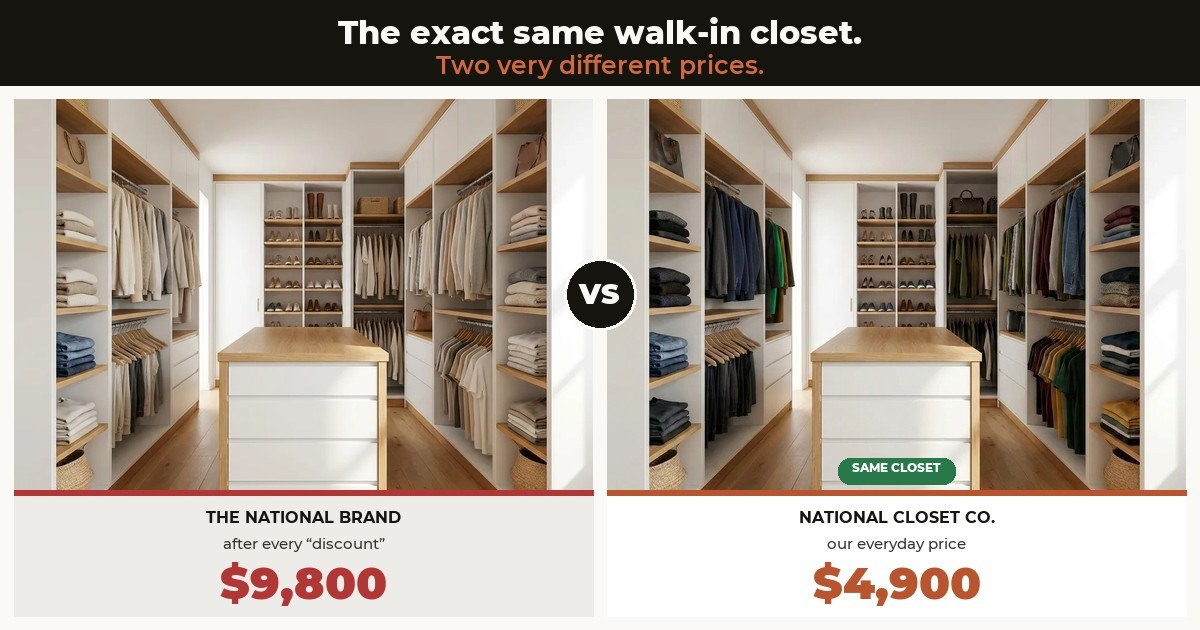
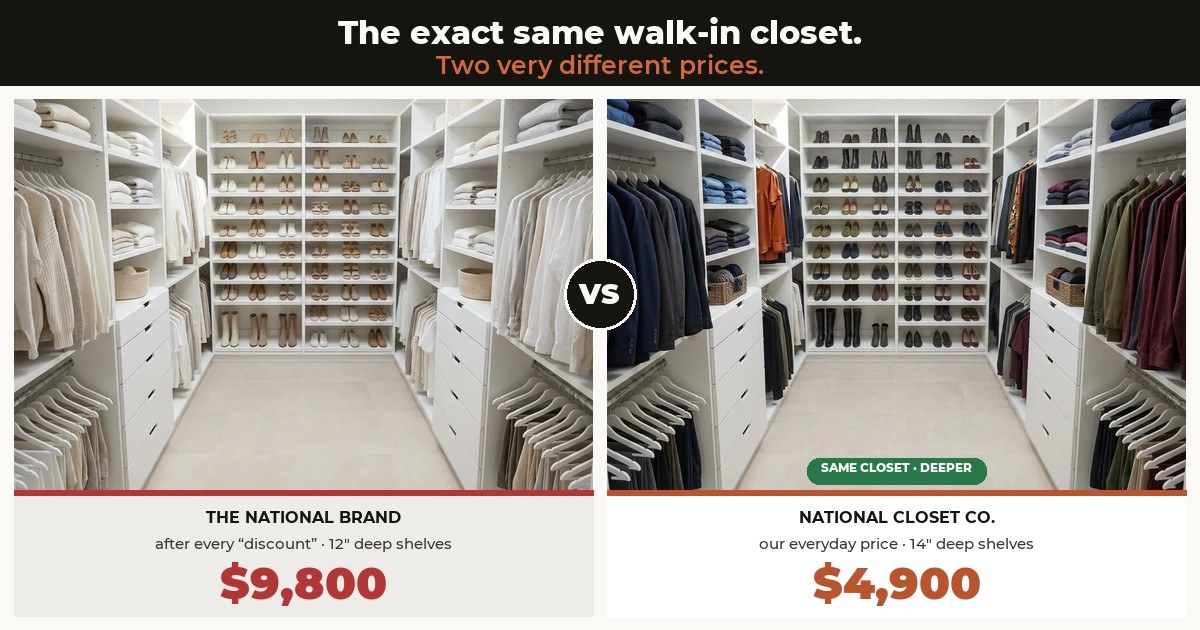
All-white/no-island comparison image; coupon-safe FAQ; add 14in vs 12in depth
- New hero image: same all-white melamine walk-in (no island), different clothing,
  their post-discount $9,800 (12in) vs our $4,900 (14in). Updated alt/caption
- Homepage FAQ reworded: we may run an honest coupon/promo but not the inflated
  National-Price 80%-off game (was a flat 'no discounts')
- Added '14in deep shelves vs their 12in' comparison to: fake-discounts post,
  large-walk-in-6700 post, california-closets-vs-local post, homepage callout + FAQ

diff --git a/index.html b/index.html
@@ -839,7 +839,7 @@ h1, h2, h3, h4 { font-family: var(--display); font-weight: 800; line-height: 1.0
     { "@type": "Question", "name": "What materials do you use for custom closets?", "acceptedAnswer": { "@type": "Answer", "upvoteCount": 0, "text": "We build with premium, furniture-grade materials, durable laminate and thermally-fused melamine over engineered wood, chosen for strength, easy cleaning and a high-end finish. You choose from dozens of colors and finishes, from crisp whites to warm woodgrains, along with soft-close drawers, glass fronts, lighting and other accessories. Everything is built to handle daily use for the long haul." } },
     { "@type": "Question", "name": "How long does it take to design and install a custom closet?", "acceptedAnswer": { "@type": "Answer", "upvoteCount": 0, "text": "From start to finish, most custom closets take about 3 to 6 weeks. Design happens at your free in-home consultation, custom manufacturing typically takes 2 to 4 weeks, and professional installation of a standard closet is usually finished in a single day with minimal disruption to your home." } },
     { "@type": "Question", "name": "Do you require a deposit, and do you offer financing or buy now, pay later?", "acceptedAnswer": { "@type": "Answer", "upvoteCount": 0, "text": "Yes to both. Your project is paid in three steps: 50% at signing, which releases your order to our manufacturing partners, 25% once your materials arrive and we schedule your installation, and the final 25% on install day. You can also pay in full at any time. You can Buy Now, Pay Later with Klarna — including a 0% interest option — and split your project into flexible payments at checkout, subject to Klarna approval, and we accept all major credit and debit cards, bank transfer and digital wallets like Apple Pay and Google Pay. Ask your designer about the easiest way to fit a custom closet into your budget." } },
-    { "@type": "Question", "name": "Do you offer big discounts like 40% or more off?", "acceptedAnswer": { "@type": "Answer", "upvoteCount": 0, "text": "No — and that's on purpose. The national brands often stack discounts (40% off, then another 15%, then a book-tonight bonus) to advertise 60 to 100% off, but the regular price was inflated first, so the closet still ends up costing about double a fair price. Marking a product up 300% and then discounting it isn't a discount; it's a gimmick. We price the job once, honestly, for the same closet system — and our everyday price often comes in around half of a national brand's discounted, book-now price. No inflated list price, no countdown, no pressure." } },
+    { "@type": "Question", "name": "Do you run big '40% off' sales like the national brands?", "acceptedAnswer": { "@type": "Answer", "upvoteCount": 0, "text": "Not the inflated-markup kind. We may run a straightforward, honest coupon or promotion now and then, but we don't play the 'National Price, then 60 to 100% off' game. The national brands stack discounts — 40% off, then another 15%, then a book-tonight bonus — on a price that was marked up around 300% first, so the closet still ends up costing about double. We price the job once, honestly, for the same closet system, and our everyday price often lands around half of a national brand's discounted, book-now price — on a closet we quote deeper, with 14-inch shelves versus their 12-inch. No inflated list price, no countdown, no pressure." } },
     { "@type": "Question", "name": "Do you build more than closets?", "acceptedAnswer": { "@type": "Answer", "upvoteCount": 0, "text": "Yes. Besides custom walk-in and reach-in closets, we design and install garage storage systems, custom pantries, home offices, laundry rooms and mudrooms, Murphy and wall beds, and media and wall units, all built and installed by the same team." } },
     { "@type": "Question", "name": "Is there a custom closet company near me? What areas do you serve?", "acceptedAnswer": { "@type": "Answer", "upvoteCount": 0, "text": "National Closet Company designs and installs custom closets and storage systems throughout Middle Tennessee, serving every city within about 90 miles of Gallatin, TN. That includes Nashville, Franklin, Brentwood, Hendersonville, Mount Juliet, Murfreesboro, Gallatin, Lebanon, Smyrna, Nolensville, Spring Hill, Belle Meade, Goodlettsville, White House, Portland, La Vergne, Green Hills, Hermitage, Old Hickory, Columbia, Springfield, Clarksville, Dickson, Cookeville and Shelbyville, plus Bowling Green, KY, and the surrounding communities. See the full list at https://nationalclosetco.com/service-areas, or call or text 629-298-8241 to confirm your city and book a free in-home consultation." } },
     { "@type": "Question", "name": "Do you offer a free in-home consultation?", "acceptedAnswer": { "@type": "Answer", "upvoteCount": 0, "text": "Yes. Every project starts with a 100% free, no-pressure in-home consultation. Your designer measures your space in person, walks through your options and finishes, and gives you a photorealistic design with transparent pricing on the spot. We measure in person, not virtually, for a perfect fit." } },
@@ -1335,7 +1335,7 @@ src="https://www.facebook.com/tr?id=904015652453670&ev=PageView&noscript=1"
 
     <div style="max-width:720px;margin:1.8rem auto 0;padding:1.4rem 1.6rem;background:var(--fog);border-left:4px solid var(--clay);border-radius:12px;text-align:left" data-reveal>
       <strong style="font-family:var(--display);font-size:1.06rem;color:var(--ink)">And no fake &ldquo;80% off&rdquo; games.</strong>
-      <p class="muted" style="margin:.5rem 0 0;line-height:1.6">The national brands stack discounts — 40% off, then another 15%, then a &ldquo;book-tonight&rdquo; bonus — on a price they marked up first, so the closet still costs about <strong>double</strong>. We just quote one honest price for the same closet system, and it&rsquo;s often <strong>half their &ldquo;discounted&rdquo; price</strong>. <a href="/blog/fake-discounts-65-percent-off" style="color:var(--clay-deep);font-weight:700;white-space:nowrap">See how the gimmick works →</a></p>
+      <p class="muted" style="margin:.5rem 0 0;line-height:1.6">The national brands stack discounts — 40% off, then another 15%, then a &ldquo;book-tonight&rdquo; bonus — on a price they marked up first, so the closet still costs about <strong>double</strong>. We just quote one honest price for the same closet system, and it&rsquo;s often <strong>half their &ldquo;discounted&rdquo; price</strong> — on a closet we build <strong>deeper (14&Prime; shelves vs their 12&Prime;)</strong>. <a href="/blog/fake-discounts-65-percent-off" style="color:var(--clay-deep);font-weight:700;white-space:nowrap">See how the gimmick works →</a></p>
     </div>
 
     <div style="margin-top:1.6rem" data-reveal>
@@ -1607,8 +1607,8 @@ src="https://www.facebook.com/tr?id=904015652453670&ev=PageView&noscript=1"
           <div class="faq__a"><div class="faq__a-inner">Yes to both. Your project is paid in three steps: <strong>50% at signing</strong>, which releases your order to our manufacturing partners, <strong>25% once your materials arrive</strong> and we schedule your installation, and the final <strong>25% on install day</strong> — or you can pay in full at any time. You can also <strong>Buy Now, Pay Later with Klarna</strong> — including a <strong>0% interest option</strong> — and split your project into flexible payments at checkout, subject to Klarna approval, and we accept all major credit and debit cards, bank transfer and digital wallets like Apple&nbsp;Pay and Google&nbsp;Pay. Ask your designer about the easiest way to fit a custom closet into your budget.</div></div>
         </div>
         <div class="faq__item">
-          <button class="faq__q" aria-expanded="false">Do you offer big discounts like 40% or more off?<span class="faq__icon" aria-hidden="true"></span></button>
-          <div class="faq__a"><div class="faq__a-inner">No — and that's on purpose. The national brands often <strong>stack discounts</strong> (40% off, then another 15%, then a "book-tonight" bonus) to advertise 60 to 100% off — but the regular price was inflated first, so the closet still ends up costing about <strong>double a fair price</strong>. Marking a product up 300% and then discounting it isn't a discount; it's a gimmick. We price the job <strong>once, honestly</strong>, for the same closet system — and our everyday price often comes in around <strong>half of a national brand's discounted, book-now price</strong>. No inflated list price, no countdown, no pressure. <a href="/blog/fake-discounts-65-percent-off">See how the fake-discount game works →</a></div></div>
+          <button class="faq__q" aria-expanded="false">Do you run big &ldquo;40% off&rdquo; sales like the national brands?<span class="faq__icon" aria-hidden="true"></span></button>
+          <div class="faq__a"><div class="faq__a-inner">Not the inflated-markup kind. We may run a <strong>straightforward, honest coupon or promotion</strong> now and then — but we don't play the &ldquo;National Price, then 60 to 100% off&rdquo; game. The national brands <strong>stack discounts</strong> (40% off, then another 15%, then a &ldquo;book-tonight&rdquo; bonus) on a price they marked up first, so the closet still ends up costing about <strong>double</strong>. We price the job <strong>once, honestly</strong>, for the same closet system — and our everyday price often lands around <strong>half of a national brand's discounted, book-now price</strong>, on a closet we quote <strong>deeper (14&Prime; shelves vs their 12&Prime;)</strong>. No inflated list price, no countdown, no pressure. <a href="/blog/fake-discounts-65-percent-off">See how the fake-discount game works →</a></div></div>
         </div>
         <div class="faq__item">
           <button class="faq__q" aria-expanded="false">Do you build wall-mounted (floating) or floor-based closets?<span class="faq__icon" aria-hidden="true"></span></button>

diff --git a/blog/fake-discounts-65-percent-off.html b/blog/fake-discounts-65-percent-off.html
@@ -150,7 +150,7 @@ src="https://www.facebook.com/tr?id=904015652453670&ev=PageView&noscript=1"
 <section class="section section--tight">
   <div class="wrap">
     <div class="prose">
-      <figure><img src="/img/blog-no-fake-discounts.webp" alt="The exact same custom walk-in closet shown twice — a national brand's post-discount price of $9,800 on the left, and National Closet Company's everyday price of $4,900 for the identical closet on the right" width="1200" height="780" /><figcaption>The exact same walk-in closet: a national brand's price after every &ldquo;discount,&rdquo; and our everyday price for the identical closet.</figcaption></figure>
+      <figure><img src="/img/blog-no-fake-discounts.webp" alt="The exact same all-white melamine walk-in closet shown twice — a national brand's post-discount price of $9,800 with 12-inch shelves on the left, and National Closet Company's everyday price of $4,900 for the identical closet with deeper 14-inch shelves on the right" width="1200" height="780" /><figcaption>The exact same white-melamine walk-in closet: a national brand's price after every &ldquo;discount&rdquo; — and our everyday price for the identical closet, built <strong>deeper</strong> at 14&Prime; vs their 12&Prime;.</figcaption></figure>
 
       <p>Every homeowner shopping for a custom closet runs into the same performance. You sit down for a quote, you hear a number that makes your stomach drop, and then — right on cue — the discounts begin. First it's <strong>40% off</strong>. Then the salesperson finds another <strong>15%</strong>. And then comes the closer: sign <em>tonight</em>, and there's another <strong>10 to 20%</strong> on top.</p>
 
@@ -182,7 +182,8 @@ src="https://www.facebook.com/tr?id=904015652453670&ev=PageView&noscript=1"
       <h2>Two homeowners who almost fell for it</h2>
       <p>This isn't hypothetical. We recently sat down with two different families who had each been to a national brand first. Both had a stack of discounts on paper — the 40%, the extra percentages, the sign-tonight bonus. And both walked away with the same quiet, nagging feeling: even after all of it, the price was still <em>so high</em> that something just didn't sit right.</p>
       <p>So they called us. We designed the same kind of closet system — same furniture-grade materials, same hanging, drawers and shelving — and quoted it the way we always do: one honest price, no percentages. <strong>Our everyday price came in at about half of the national brand's "discounted, book-now" price.</strong> Not half of the inflated list price — half of the number they were being pressured to sign that night.</p>
-      <p>That's the whole thing in a sentence: a real, everyday, no-games price beat a giant stacked discount by 50%. Trust that instinct. If the "deal" still feels expensive, it usually is.</p>
+      <p>And here's the kicker: our closet wasn't just cheaper — it was <strong>better built</strong>. We quoted <strong>14-inch-deep shelves; the national brand had quoted 12</strong>. Deeper shelves hold more and keep folded stacks and bins from hanging over the edge, so both families got a roomier, more usable closet <em>and</em> paid about half.</p>
+      <p>That's the whole thing in a sentence: a real, everyday, no-games price — on a deeper, better closet — beat a giant stacked discount by 50%. Trust that instinct. If the "deal" still feels expensive, it usually is.</p>
 
       <h2>Why nobody can actually give away 80%</h2>
       <p>Here's what genuinely goes into a custom closet: the materials themselves — we build in 3/4-inch furniture board, not wire — plus shipping from the manufacturer, sales tax, the designer who measures and draws your space, the crew that installs it, the truck, the insurance, and the warranty that has to be honored later.</p>

diff --git a/blog/large-walk-in-closet-6700.html b/blog/large-walk-in-closet-6700.html
@@ -162,7 +162,7 @@ src="https://www.facebook.com/tr?id=904015652453670&ev=PageView&noscript=1"
       <p>It's finished in clean white <strong>furniture-grade melamine</strong> — the same durable, wipe-clean material the national brands use — with a bright, built-in look that makes the whole room feel like a boutique dressing room.</p>
 
       <h2>Same melamine, none of the showroom markup</h2>
-      <p>So how is the price barely half? It isn't cheaper materials, and it isn't a smaller closet. It's <strong>overhead</strong>. The national franchises build the cost of glossy showrooms, constant advertising, franchise royalties and commissioned salespeople into every quote — and then inflate the number so they can wave a big &ldquo;discount&rdquo; at you later. We're family-owned. We skip the showroom and the sales theater, build from the same furniture-grade laminate and hardware, and quote you an honest installed price the first time. On this closet, that difference was <strong>$5,300 to $10,300</strong> left in the homeowner's pocket.</p>
+      <p>So how is the price barely half? It isn't cheaper materials, and it isn't a smaller closet. It's <strong>overhead</strong>. The national franchises build the cost of glossy showrooms, constant advertising, franchise royalties and commissioned salespeople into every quote — and then inflate the number so they can wave a big &ldquo;discount&rdquo; at you later. We're family-owned. We skip the showroom and the sales theater, build from the same furniture-grade laminate and hardware, and quote you an honest installed price the first time. On this closet, that difference was <strong>$5,300 to $10,300</strong> left in the homeowner's pocket. And it wasn't a lesser closet for the money — we quoted it <strong>deeper</strong>, with <strong>14-inch shelves where the national brands typically spec 12</strong>, so it actually holds more.</p>
 
       <blockquote>Same closet. Same materials. Half the price — because you're not paying franchise fees.</blockquote>
 

diff --git a/blog/california-closets-vs-local.html b/blog/california-closets-vs-local.html
@@ -146,7 +146,7 @@ src="https://www.facebook.com/tr?id=904015652453670&ev=PageView&noscript=1"
     <div class="prose">
       <figure><img src="/img/blog-closet-systems-compared.webp" alt="Two custom closet systems side by side comparing finishes and layouts" /><figcaption>Both national brands and local builders make beautiful custom closets — the differences are in price, service and who does the work.</figcaption></figure>
 
-      <p>Let's start with what's the same: both a national brand and a good local company will design a custom system to the inch, build it from <strong>3/4-inch engineered furniture board</strong> with soft-close hardware, and professionally install it. The materials and the finished look are broadly comparable. Where they differ is everything <em>around</em> the closet.</p>
+      <p>Let's start with what's the same: both a national brand and a good local company will design a custom system to the inch, build it from <strong>3/4-inch engineered furniture board</strong> with soft-close hardware, and professionally install it. The materials and the finished look are broadly comparable — though a good local shop can quietly out-spec the big brands where it counts: we typically quote our shelves <strong>14 inches deep versus the 12 inches</strong> the national brands often use, for a roomier, more usable closet. Where they really differ, though, is everything <em>around</em> the closet.</p>
 
       <h2>Side-by-side comparison</h2>
       <div style="overflow-x:auto;margin:1.2rem 0">
